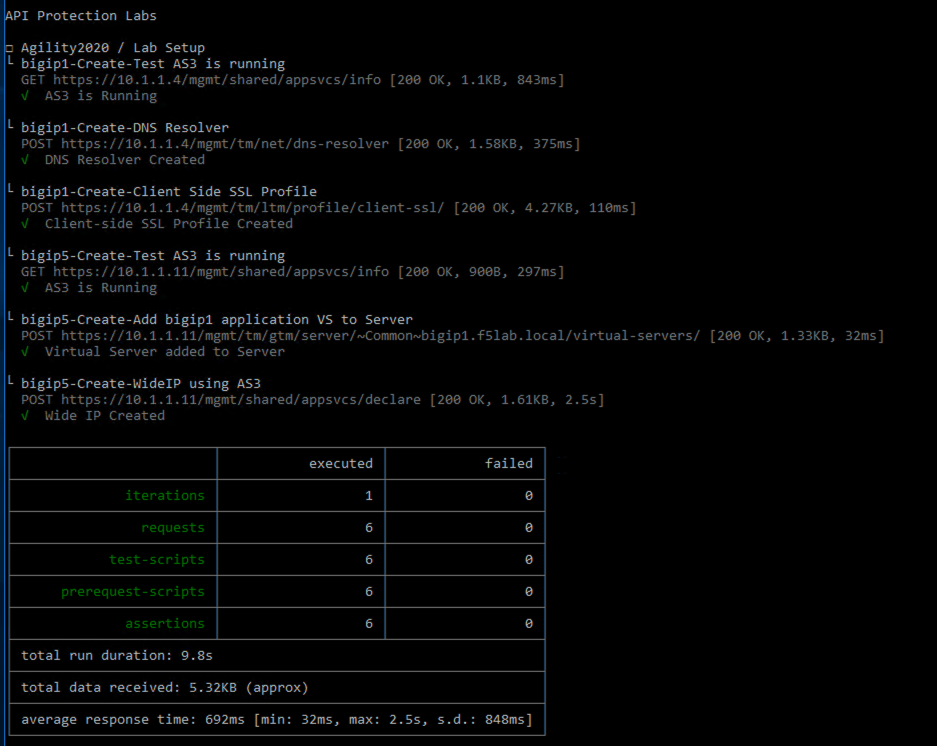
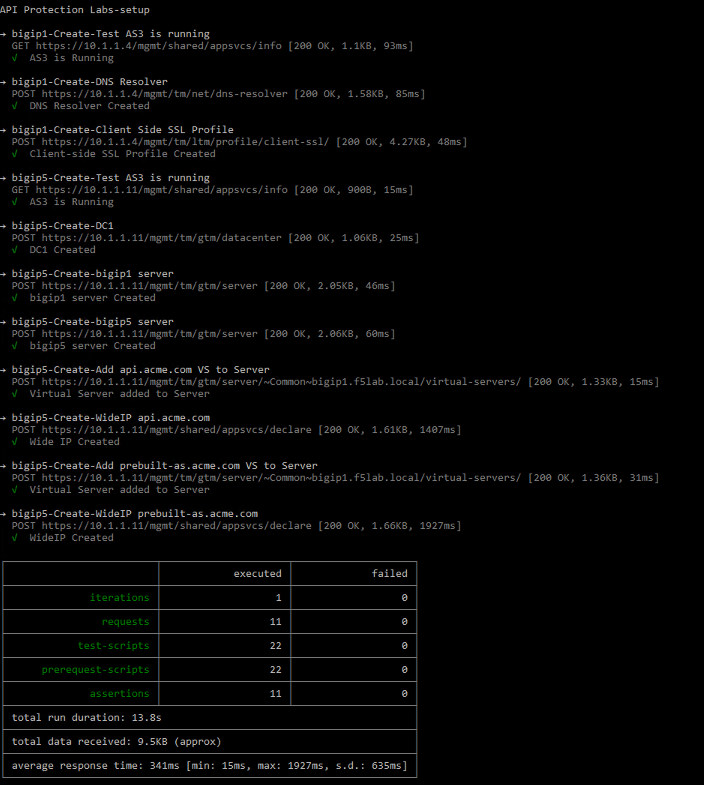
class1 update

diff --git a/class1/class1.rst b/class1/class1.rst
@@ -27,7 +27,7 @@ Setup Lab Environment
 
 #. Type the command **cd c:\\labs\\class1\\postman** to navigate the Postman collection folder.
 
-#. Type the command **newman run "API Protection Labs.postman_collection.json" -e setup-master.postman_environment.json -k**
+#. Type the command **newman run "API Protection Labs-setup.postman_collection.json" -e master-single-dc.postman_environment.json -k**
 
 #. All Steps in the collection should succeed before moving on to the lab.  If an API call fails run the collection again by repeating the previous step.  
 
